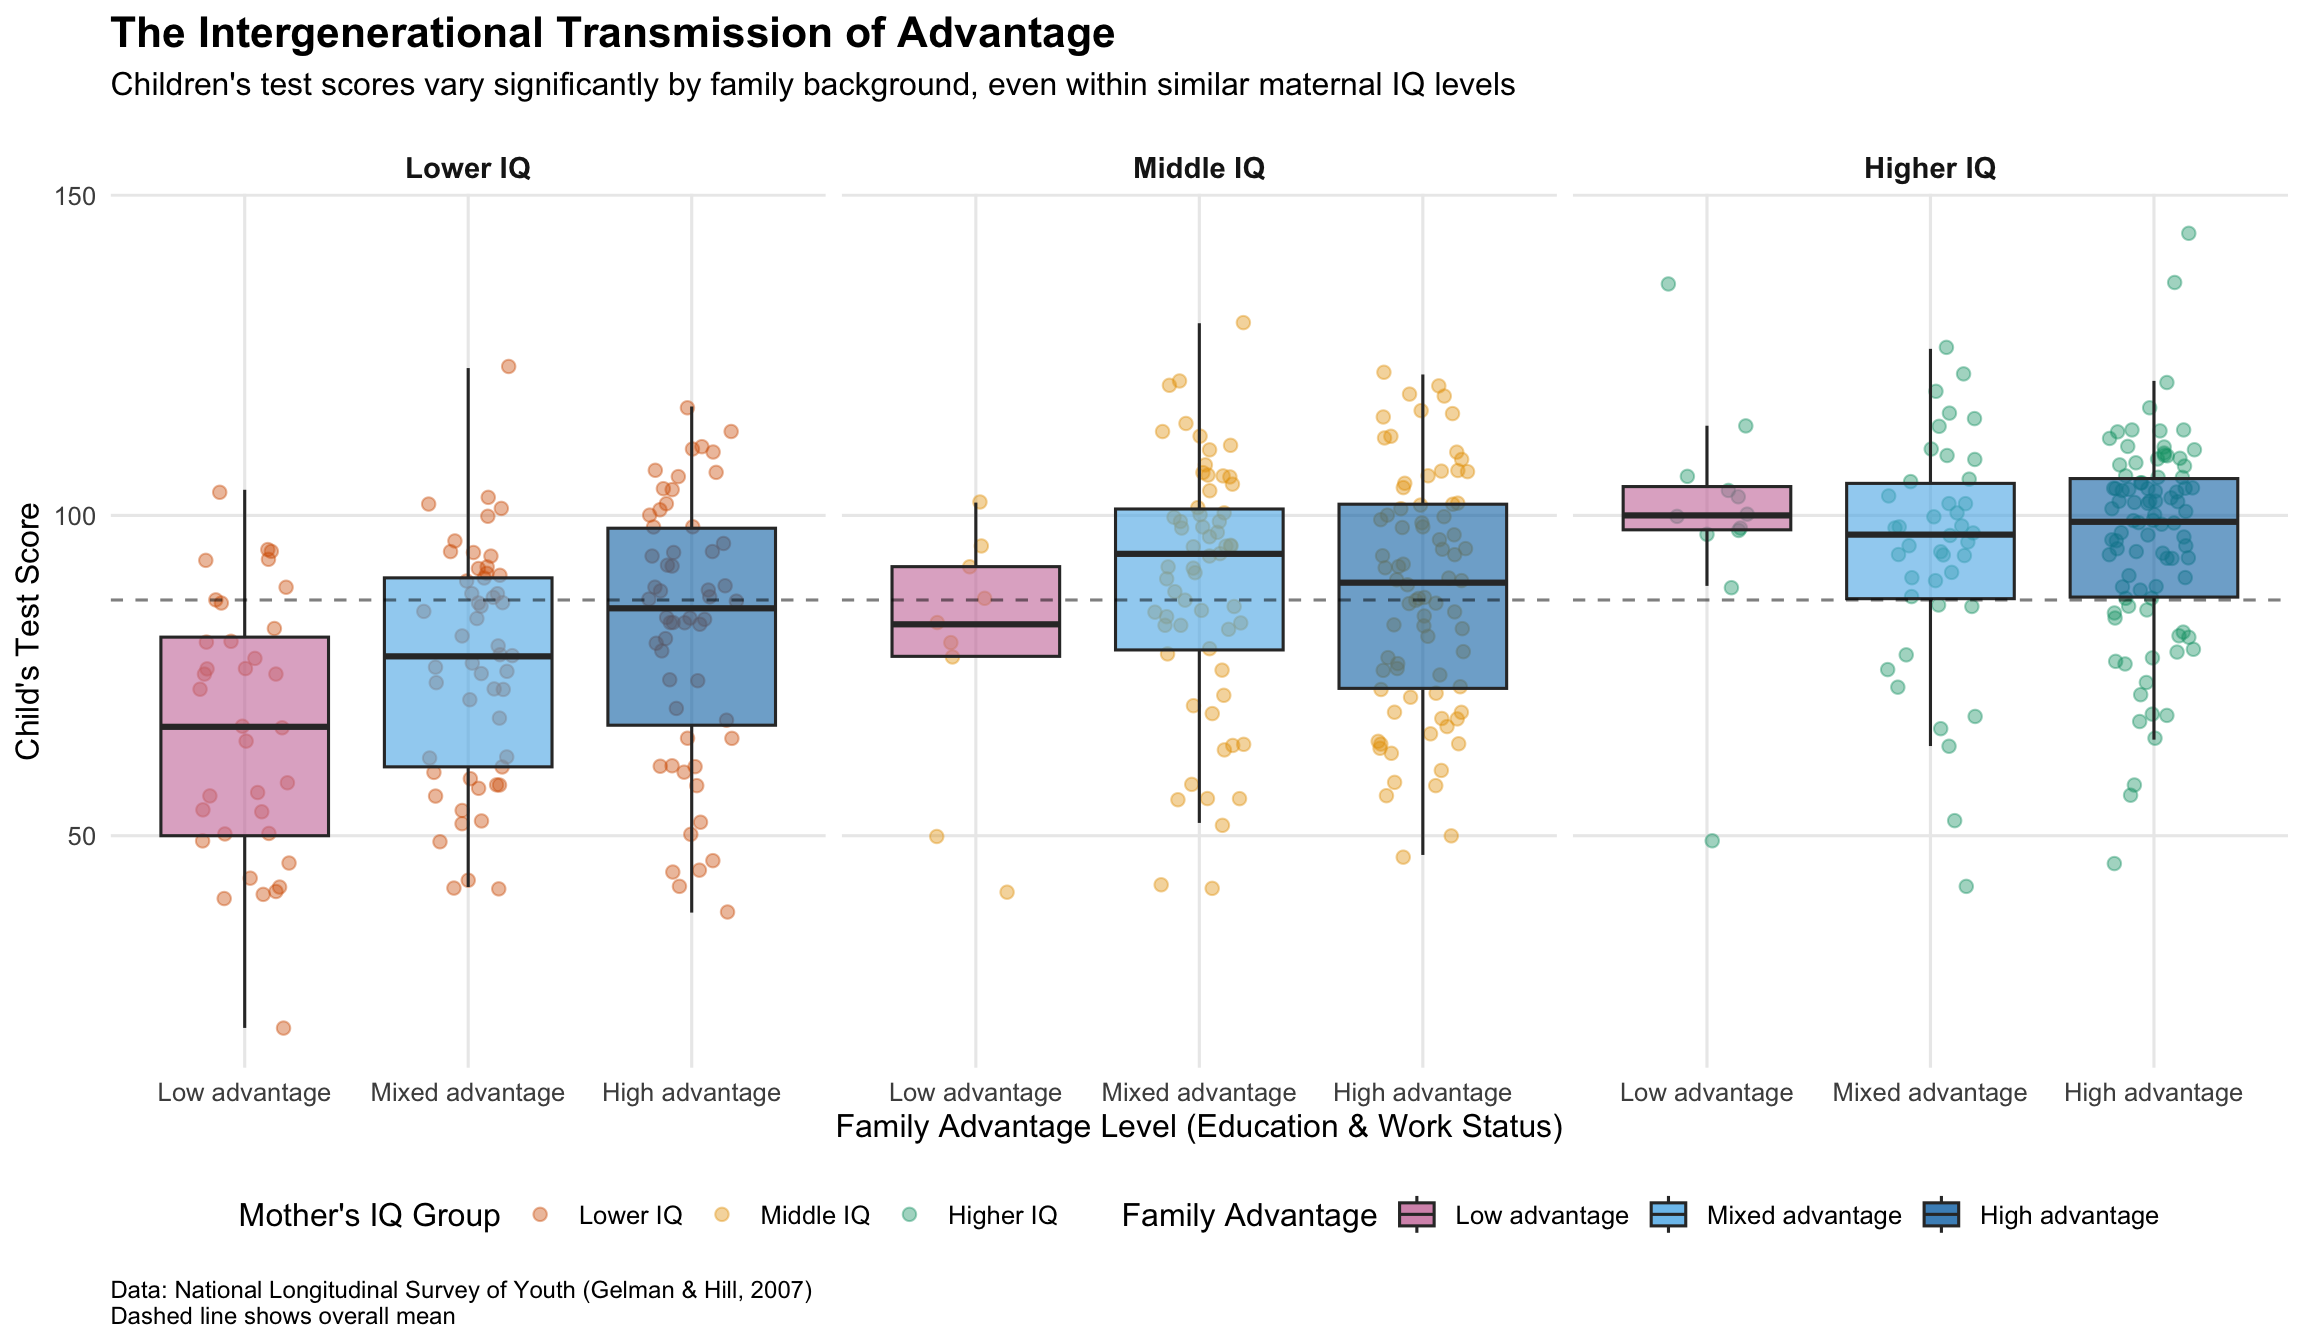
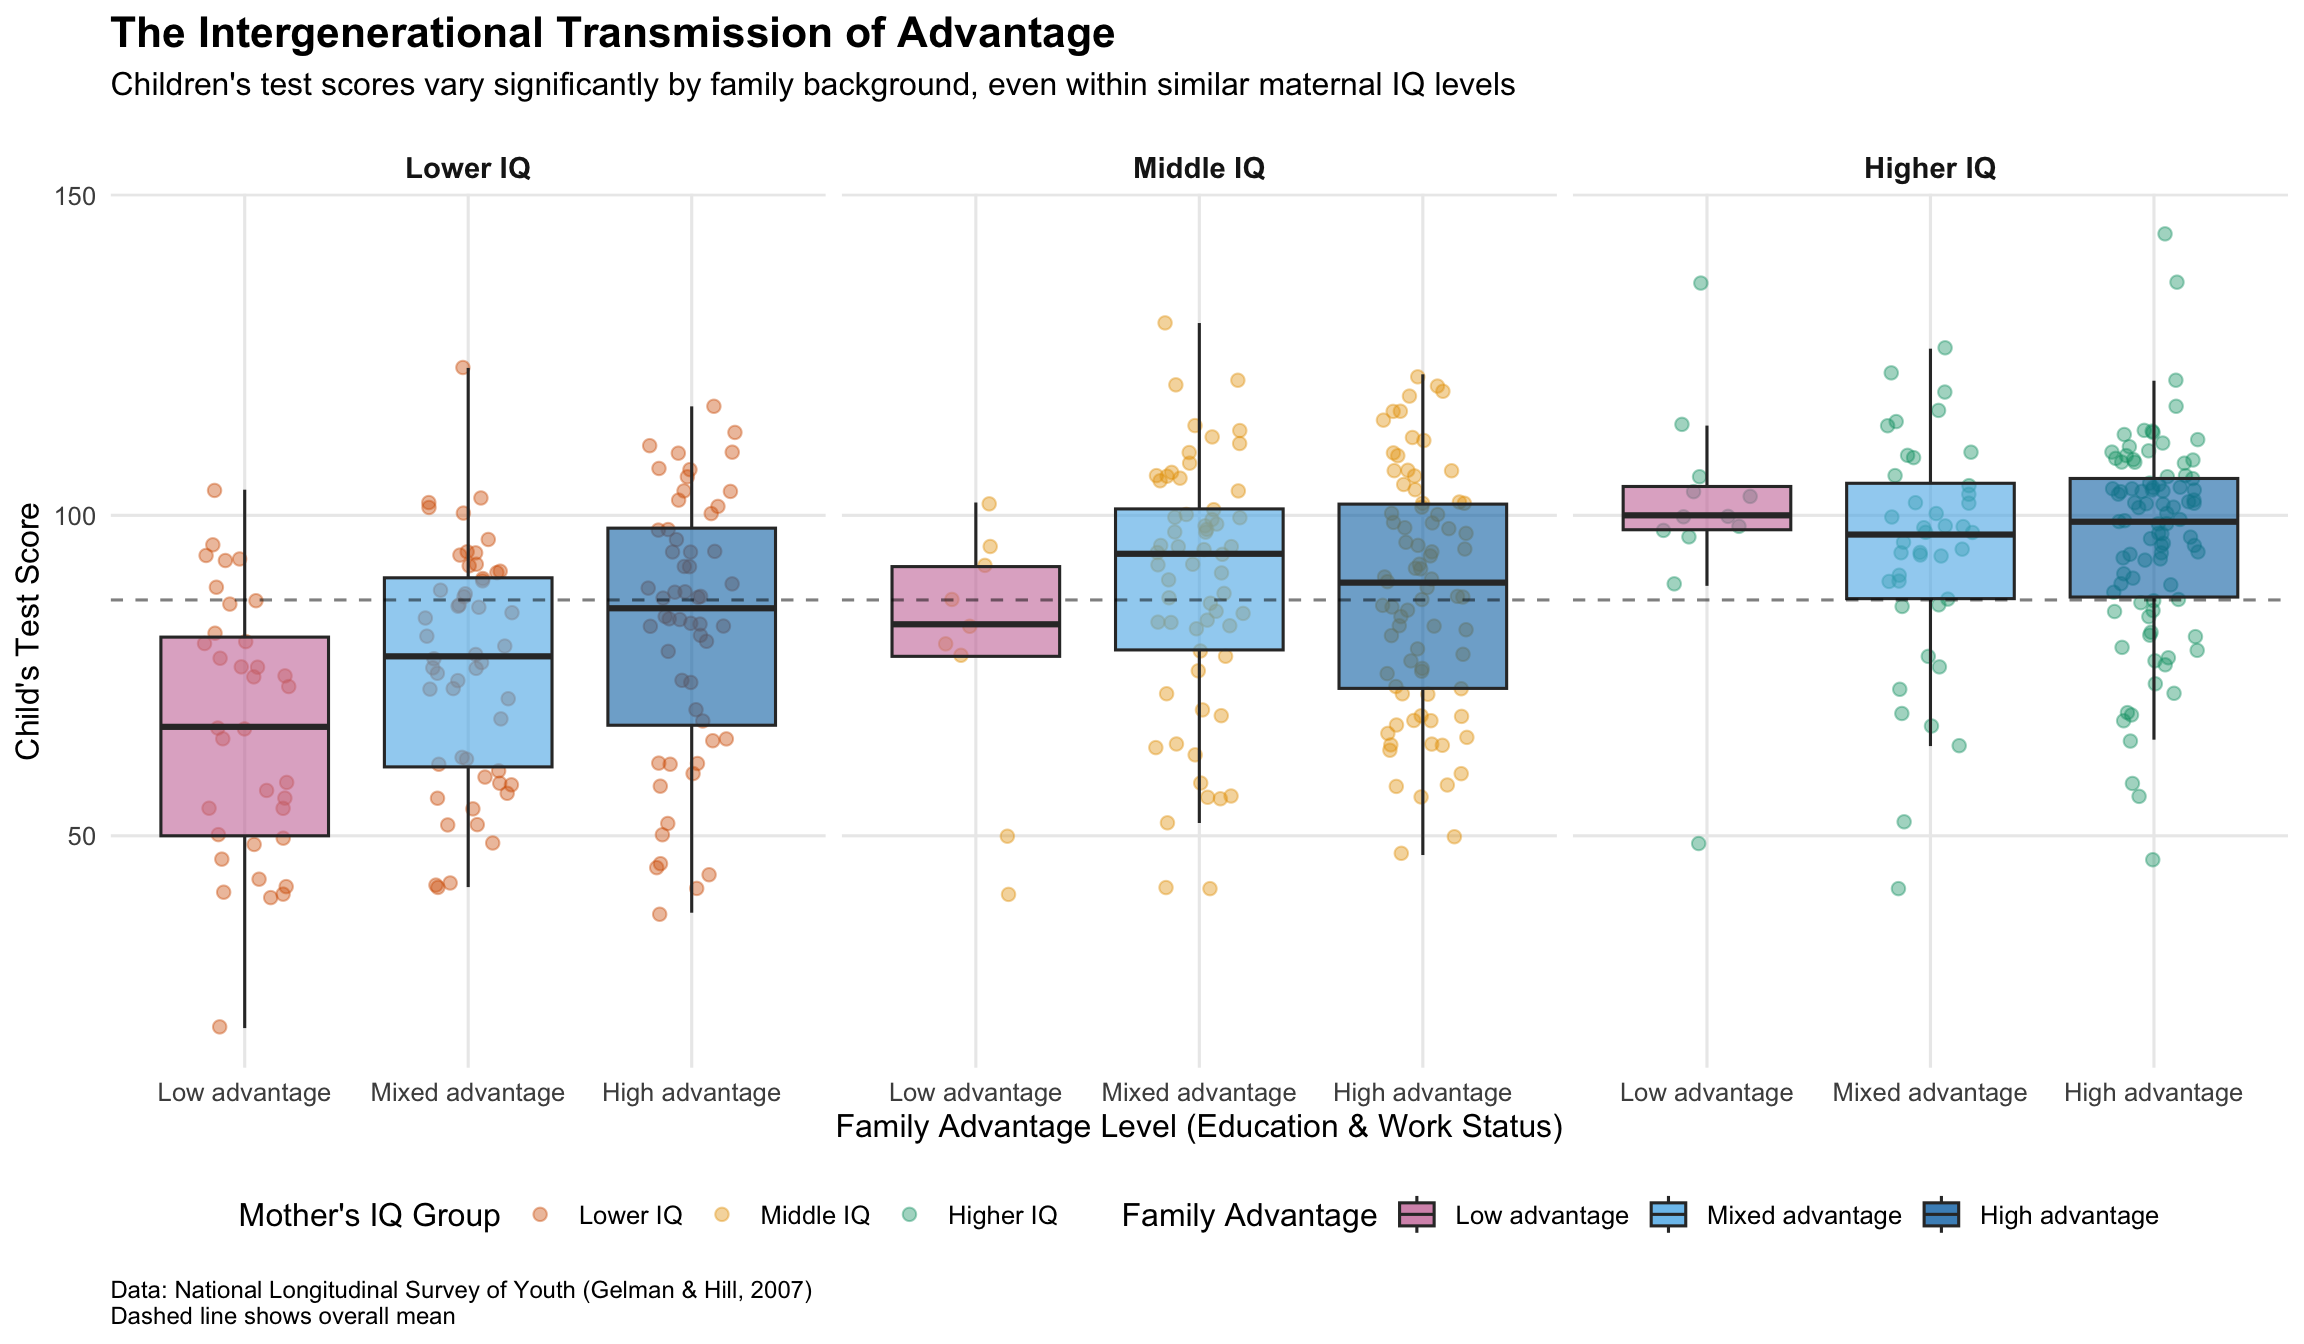
Add personalised content and GV300 showcase

diff --git a/_site/gv300-showcase.html b/_site/gv300-showcase.html
@@ -94,8 +94,8 @@ code span.wa { color: #5e5e5e; font-style: italic; } /* Warning */
 
 
   <!--  https://schema.org/Article -->
-  <meta property="article:published" itemprop="datePublished" content="2026-02-16"/>
-  <meta property="article:created" itemprop="dateCreated" content="2026-02-16"/>
+  <meta property="article:published" itemprop="datePublished" content="2026-02-17"/>
+  <meta property="article:created" itemprop="dateCreated" content="2026-02-17"/>
   <meta name="article:author" content="Eiliya Rahemzadh"/>
 
   <!--  https://developers.facebook.com/docs/sharing/webmasters#markup -->
@@ -114,7 +114,7 @@ code span.wa { color: #5e5e5e; font-style: italic; } /* Warning */
   <!--radix_placeholder_rmarkdown_metadata-->
 
   <script type="text/json" id="radix-rmarkdown-metadata">
-  {"type":"list","attributes":{"names":{"type":"character","attributes":{},"value":["title","description","author","date","output"]}},"value":[{"type":"character","attributes":{},"value":["GV300 Showcase: Data Analysis & Visualization"]},{"type":"character","attributes":{},"value":["Highlights from my work in GV300 Research Methods, featuring analysis of intergenerational advantage and UK electoral participation\n"]},{"type":"list","attributes":{},"value":[{"type":"list","attributes":{"names":{"type":"character","attributes":{},"value":["name","affiliation"]}},"value":[{"type":"character","attributes":{},"value":["Eiliya Rahemzadh"]},{"type":"character","attributes":{},"value":["The University of Essex"]}]}]},{"type":"character","attributes":{},"value":["2026-02-16"]},{"type":"list","attributes":{"names":{"type":"character","attributes":{},"value":["distill::distill_article"]}},"value":[{"type":"list","attributes":{"names":{"type":"character","attributes":{},"value":["toc","toc_depth","code_folding"]}},"value":[{"type":"logical","attributes":{},"value":[true]},{"type":"integer","attributes":{},"value":[2]},{"type":"character","attributes":{},"value":["show"]}]}]}]}
+  {"type":"list","attributes":{"names":{"type":"character","attributes":{},"value":["title","description","author","date","output"]}},"value":[{"type":"character","attributes":{},"value":["GV300 Showcase: Data Analysis & Visualization"]},{"type":"character","attributes":{},"value":["Highlights from my work in GV300 Research Methods, featuring analysis of intergenerational advantage and UK electoral participation\n"]},{"type":"list","attributes":{},"value":[{"type":"list","attributes":{"names":{"type":"character","attributes":{},"value":["name","affiliation"]}},"value":[{"type":"character","attributes":{},"value":["Eiliya Rahemzadh"]},{"type":"character","attributes":{},"value":["The University of Essex"]}]}]},{"type":"character","attributes":{},"value":["2026-02-17"]},{"type":"list","attributes":{"names":{"type":"character","attributes":{},"value":["distill::distill_article"]}},"value":[{"type":"list","attributes":{"names":{"type":"character","attributes":{},"value":["toc","toc_depth","code_folding"]}},"value":[{"type":"logical","attributes":{},"value":[true]},{"type":"integer","attributes":{},"value":[2]},{"type":"character","attributes":{},"value":["show"]}]}]}]}
   </script>
   <!--/radix_placeholder_rmarkdown_metadata-->
   <!--radix_placeholder_navigation_in_header-->
@@ -2524,7 +2524,7 @@ code span.wa { color: #5e5e5e; font-style: italic; } /* Warning */
 <!--radix_placeholder_front_matter-->
 
 <script id="distill-front-matter" type="text/json">
-{"title":"GV300 Showcase: Data Analysis & Visualization","description":"Highlights from my work in GV300 Research Methods, featuring analysis of intergenerational advantage and UK electoral participation","authors":[{"author":"Eiliya Rahemzadh","authorURL":"#","affiliation":"The University of Essex","affiliationURL":"#","orcidID":""}],"publishedDate":"2026-02-16T00:00:00.000+00:00","citationText":"Rahemzadh, 2026"}
+{"title":"GV300 Showcase: Data Analysis & Visualization","description":"Highlights from my work in GV300 Research Methods, featuring analysis of intergenerational advantage and UK electoral participation","authors":[{"author":"Eiliya Rahemzadh","authorURL":"#","affiliation":"The University of Essex","affiliationURL":"#","orcidID":""}],"publishedDate":"2026-02-17T00:00:00.000+00:00","citationText":"Rahemzadh, 2026"}
 </script>
 
 <!--/radix_placeholder_front_matter-->
@@ -2560,7 +2560,7 @@ code span.wa { color: #5e5e5e; font-style: italic; } /* Warning */
 <div class="d-byline">
   Eiliya Rahemzadh  (The University of Essex)
   
-<br/>2026-02-16
+<br/>2026-02-17
 </div>
 
 <div class="d-article">
@@ -3309,7 +3309,7 @@ show
 <li><strong>LinkedIn</strong>: www.linkedin.com/in/eiliya-rahemzadh-222867206</li>
 </ul>
 <hr />
-<p><em>This showcase was created using <a href="https://rstudio.github.io/distill/">Distill for R Markdown</a>. Last updated: February 16, 2026</em></p>
+<p><em>This showcase was created using <a href="https://rstudio.github.io/distill/">Distill for R Markdown</a>. Last updated: February 17, 2026</em></p>
 <div class="sourceCode" id="cb2"><pre class="sourceCode r distill-force-highlighting-css"><code class="sourceCode r"></code></pre></div>
 <!--radix_placeholder_article_footer-->
 <!--/radix_placeholder_article_footer-->

diff --git a/_site/about.html b/_site/about.html
@@ -2600,7 +2600,7 @@ code span.wa { color: #5e5e5e; font-style: italic; } /* Warning */
 <li><strong>GitHub</strong>: (<a href="https://github.com/erahemzadh" class="uri">https://github.com/erahemzadh</a>)</li>
 <li><h2 id="linkedin-www.linkedin.comineiliya-rahemzadh-222867206"><strong>LinkedIn</strong>: www.linkedin.com/in/eiliya-rahemzadh-222867206</h2></li>
 </ul>
-<p><em>Last updated: February 16, 2026</em></p>
+<p><em>Last updated: February 17, 2026</em></p>
 <div class="sourceCode" id="cb1"><pre class="sourceCode r distill-force-highlighting-css"><code class="sourceCode r"></code></pre></div>
 <!--radix_placeholder_article_footer-->
 <!--/radix_placeholder_article_footer-->
